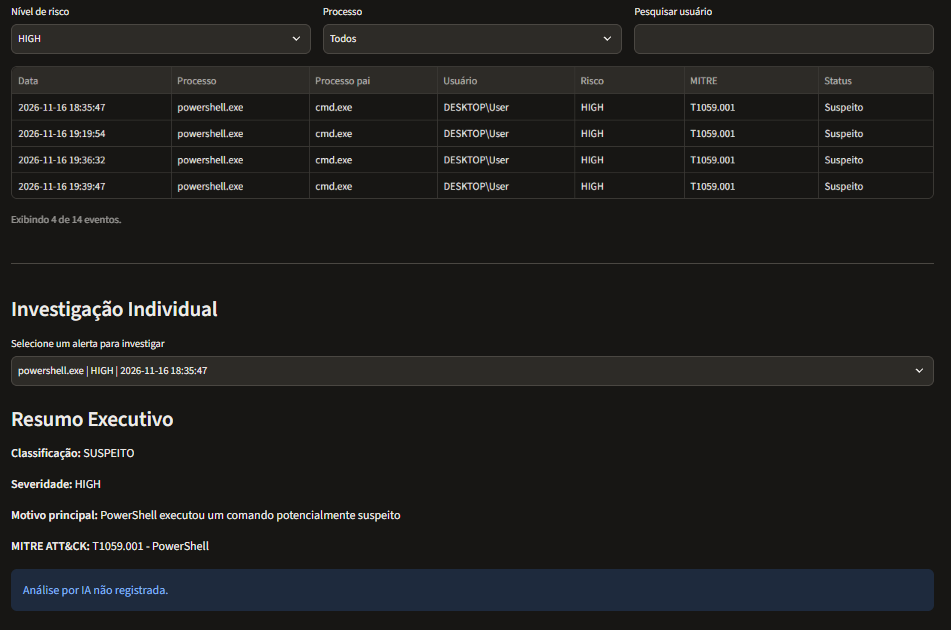
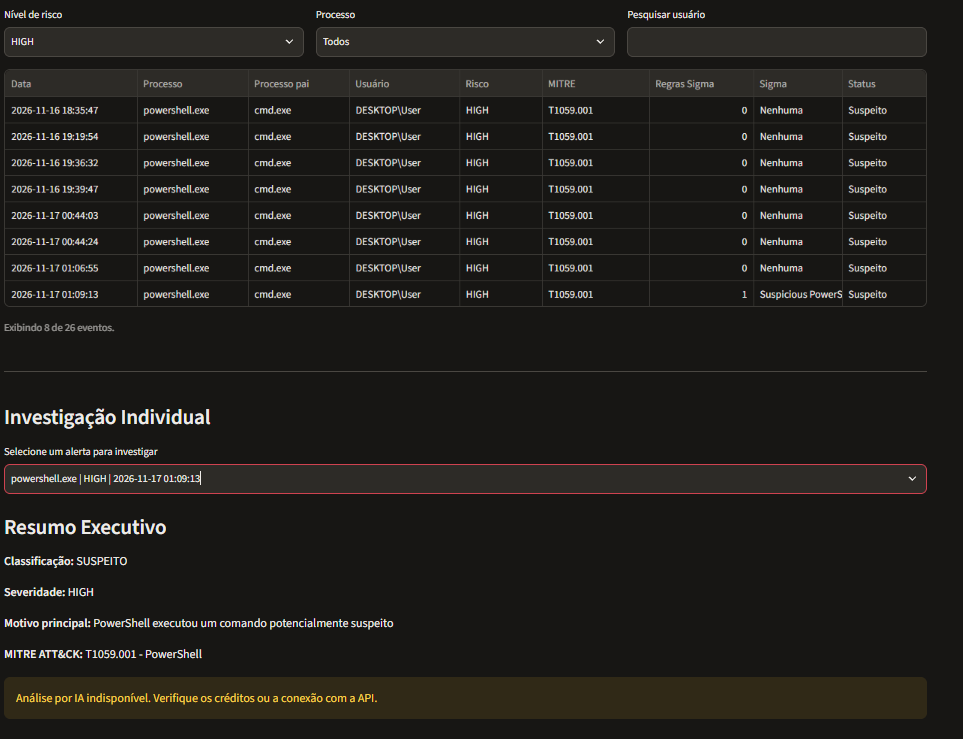
Add Sigma detection engine and dashboard integration

diff --git a/detection/sigma_engine.py b/detection/sigma_engine.py
@@ -1,0 +1,127 @@
+
+from pathlib import Path
+import yaml
+
+
+SIGMA_RULES_DIR = Path("rules/sigma")
+
+FIELD_MAPPING = {
+    "Image": "process_name",
+    "ParentImage": "parent_process",
+    "CommandLine": "command_line",
+}
+
+
+def load_sigma_rules():
+    rules = []
+
+    for rule_file in SIGMA_RULES_DIR.glob("*.yml"):
+        with rule_file.open("r", encoding="utf-8") as file:
+            rule = yaml.safe_load(file)
+
+        if isinstance(rule, dict):
+            rule["_source_file"] = rule_file.name
+            rules.append(rule)
+
+    return rules
+
+
+def normalize_value(value):
+    return str(value).lower()
+
+
+def match_selection(selection, event):
+    for field_operator, expected in selection.items():
+
+        if "|" in field_operator:
+            field, operator = field_operator.split("|", 1)
+        else:
+            field = field_operator
+            operator = "equals"
+
+        event_field = FIELD_MAPPING.get(field)
+
+        if event_field is None:
+            return False
+
+        actual = normalize_value(event.get(event_field, ""))
+
+        expected_values = (
+            expected if isinstance(expected, list)
+            else [expected]
+        )
+
+        matched = False
+
+        for value in expected_values:
+            value = normalize_value(value)
+
+            if operator == "contains" and value in actual:
+                matched = True
+
+            elif operator == "endswith":
+                suffix = value.replace("\\", "/").split("/")[-1]
+                actual_name = actual.replace("\\", "/").split("/")[-1]
+
+                if actual_name.endswith(suffix):
+                    matched = True
+
+            elif operator == "equals" and actual == value:
+                matched = True
+
+        if not matched:
+            return False
+
+    return True
+
+
+def evaluate_sigma_rule(rule, event):
+    detection = rule.get("detection", {})
+    condition = detection.get("condition")
+
+    if not isinstance(condition, str):
+        return False
+
+    selections = {
+        name: match_selection(value, event)
+        for name, value in detection.items()
+        if name != "condition" and isinstance(value, dict)
+    }
+
+    parts = condition.lower().split()
+
+    # Suporte às condições simples:
+    # selection
+    # selection_parent and selection_child
+    if len(parts) == 1:
+        return selections.get(parts[0], False)
+
+    if len(parts) == 3 and parts[1] == "and":
+        return (
+            selections.get(parts[0], False)
+            and selections.get(parts[2], False)
+        )
+
+    if len(parts) == 3 and parts[1] == "or":
+        return (
+            selections.get(parts[0], False)
+            or selections.get(parts[2], False)
+        )
+
+    return False
+
+
+def analyze_with_sigma(event):
+    alerts = []
+
+    for rule in load_sigma_rules():
+        if evaluate_sigma_rule(rule, event):
+            alerts.append({
+                "rule": rule["title"],
+                "rule_id": rule["id"],
+                "level": rule["level"],
+                "source_file": rule["_source_file"],
+                "tags": rule.get("tags", []),
+            })
+
+    return alerts

diff --git a/main.py b/main.py
@@ -1,13 +1,13 @@
 
-
-
 from analyzer.sysmon_reader import read_sysmon_events
 from analyzer.report_generator import generate_report
 from analyzer.statistics import generate_statistics
 from detection.rules import analyze_event
 from detection.mitre_mapping import map_mitre_technique
+from detection.sigma_engine import analyze_with_sigma
 from analyzer.ai_analyzer import build_analysis_prompt
 from analyzer.ai_analyzer import generate_ai_analysis
+
 
 def main():
     print("=== AI CYBER THREAT ANALYZER ===")
@@ -15,15 +15,16 @@ def main():
     events = read_sysmon_events("data/sysmon_sample.json")
     results = []
 
-    
     for index, event in enumerate(events, start=1):
         result = analyze_event(event)
+        sigma_alerts = analyze_with_sigma(event)
         mitre = map_mitre_technique(event, result)
 
         prompt = build_analysis_prompt(event, result, mitre)
 
         print("\n=== PROMPT PARA ANÁLISE COM IA ===")
         print(prompt)
+
         ai_analysis = generate_ai_analysis(prompt)
 
         print("\n=== ANÁLISE GERADA PELA IA ===")
@@ -40,12 +41,31 @@ def main():
         for reason in result["reasons"]:
             print(f"Motivo: {reason}")
 
+        print("\n=== ALERTAS SIGMA ===")
+
+        if sigma_alerts:
+            for alert in sigma_alerts:
+                print(f"Regra: {alert['rule']}")
+                print(f"Severidade: {alert['level']}")
+                print(f"ID da regra: {alert['rule_id']}")
+        else:
+            print("Nenhum alerta Sigma identificado.")
+
         if mitre:
-            print(f"MITRE: {mitre['technique_id']} - {mitre['technique_name']}")
+            print(
+                f"MITRE: {mitre['technique_id']} - "
+                f"{mitre['technique_name']}"
+            )
 
-        report_path = generate_report(event, result, mitre, ai_analysis)
+        report_path = generate_report(
+            event,
+            result,
+            mitre,
+            ai_analysis,
+            sigma_alerts
+            )
+
         print(f"Relatório: {report_path}")
-
 
     statistics = generate_statistics(results)
 
@@ -55,6 +75,7 @@ def main():
     print(f"Eventos normais: {statistics['normal_events']}")
 
     print("\n=== DISTRIBUICAO DE RISCO ===")
+
     for risk, count in statistics["risk_levels"].items():
         print(f"{risk.upper()}: {count}")
 

diff --git a/dashboard/app.py b/dashboard/app.py
@@ -113,6 +113,7 @@ if reports:
         event = report["event"]
         detection = report["detection"]
         mitre = report.get("mitre_attack")
+        sigma_alerts = report.get("sigma_alerts", [])
 
         alert_data.append({
             "Data": report["analysis_time"][:19].replace("T", " "),
@@ -123,6 +124,11 @@ if reports:
             "MITRE": (
                 mitre["technique_id"] if mitre else "Não mapeado"
             ),
+            "Regras Sigma": len(sigma_alerts),
+            "Sigma": ", ".join(
+                alert.get("rule", "Regra desconhecida")
+                for alert in sigma_alerts
+            ) if sigma_alerts else "Nenhuma",
             "Status": (
                 "Suspeito" if detection["suspicious"] else "Normal"
             )
@@ -206,6 +212,7 @@ if reports:
         event = selected_report["event"]
         detection = selected_report["detection"]
         mitre = selected_report.get("mitre_attack")
+        sigma_alerts = selected_report.get("sigma_alerts", [])
 
 
         st.markdown("### Resumo Executivo")
@@ -281,6 +288,24 @@ if reports:
             )
         else:
             st.info("Nenhuma técnica MITRE mapeada.")
+
+        st.markdown("### Sigma Detection")
+        
+        if sigma_alerts:
+            for alert in sigma_alerts:
+                with st.expander(
+                    f"{alert.get('rule', 'Regra Sigma')} "
+                    f"| {alert.get('level', 'unknown').upper()}"
+        ):
+                    st.write("**Nome da regra:**", alert.get("rule"))
+                    st.write("**ID:**", alert.get("rule_id"))
+                    st.write("**Severidade:**", alert.get("level", "").upper())
+                    st.write("**Arquivo:**", alert.get("source_file"))
+                    st.write("**Tags MITRE:**")
+                    for tag in alert.get("tags", []):
+                        st.markdown(f"- `{tag}`")
+        else:
+            st.info("Nenhuma regra Sigma foi acionada neste evento.")
 
         st.markdown("### Análise da IA")
 

diff --git a/detection/sigma_validator.py b/detection/sigma_validator.py
@@ -1,0 +1,53 @@
+
+from pathlib import Path
+import yaml
+
+
+SIGMA_RULES_DIR = Path("rules/sigma")
+
+
+def validate_sigma_rules():
+    rule_files = list(SIGMA_RULES_DIR.glob("*.yml"))
+
+    if not rule_files:
+        print("Nenhuma regra Sigma encontrada.")
+        return
+
+    for rule_file in rule_files:
+        try:
+            with rule_file.open("r", encoding="utf-8") as file:
+                rule = yaml.safe_load(file)
+
+            required_fields = [
+                "title",
+                "id",
+                "status",
+                "description",
+                "logsource",
+                "detection",
+                "level",
+            ]
+
+            missing_fields = [
+                field for field in required_fields
+                if field not in rule
+            ]
+
+            if missing_fields:
+                print(f"[INVALID] {rule_file.name}: campos ausentes {missing_fields}")
+                continue
+
+            if "condition" not in rule["detection"]:
+                print(f"[INVALID] {rule_file.name}: condição ausente")
+                continue
+
+            print(f"[VALID] {rule_file.name}")
+
+        except yaml.YAMLError as error:
+            print(f"[INVALID] {rule_file.name}: erro YAML: {error}")
+
+    print("\nValidação concluída.")
+
+
+if __name__ == "__main__":
+    validate_sigma_rules()

diff --git a/tests/test_sigma_engine.py b/tests/test_sigma_engine.py
@@ -1,0 +1,24 @@
+
+from analyzer.sysmon_reader import read_sysmon_events
+from detection.sigma_engine import analyze_with_sigma
+
+
+def main():
+    events = read_sysmon_events("data/sysmon_sample.json")
+
+    for index, event in enumerate(events, start=1):
+        alerts = analyze_with_sigma(event)
+
+        print(f"\n=== EVENTO {index} ===")
+        print(f"Processo: {event['process_name']}")
+
+        if alerts:
+            for alert in alerts:
+                print(f"Regra Sigma: {alert['rule']}")
+                print(f"Severidade: {alert['level']}")
+        else:
+            print("Nenhum alerta Sigma.")
+
+
+if __name__ == "__main__":
+    main()

diff --git a/analyzer/report_generator.py b/analyzer/report_generator.py
@@ -8,7 +8,8 @@ def generate_report(
     event: dict,
     result: dict,
     mitre: dict | None,
-    ai_analysis: str
+    ai_analysis: str,
+    sigma_alerts: list | None = None
 ) -> str:
 
     report = {
@@ -16,6 +17,7 @@ def generate_report(
         "event": event,
         "detection": result,
         "mitre_attack": mitre,
+        "sigma_alerts": sigma_alerts or [],
         "ai_analysis": ai_analysis,
     }
 
@@ -29,3 +31,4 @@ def generate_report(
         json.dump(report, file, indent=4, ensure_ascii=False)
 
     return str(report_path)
+
